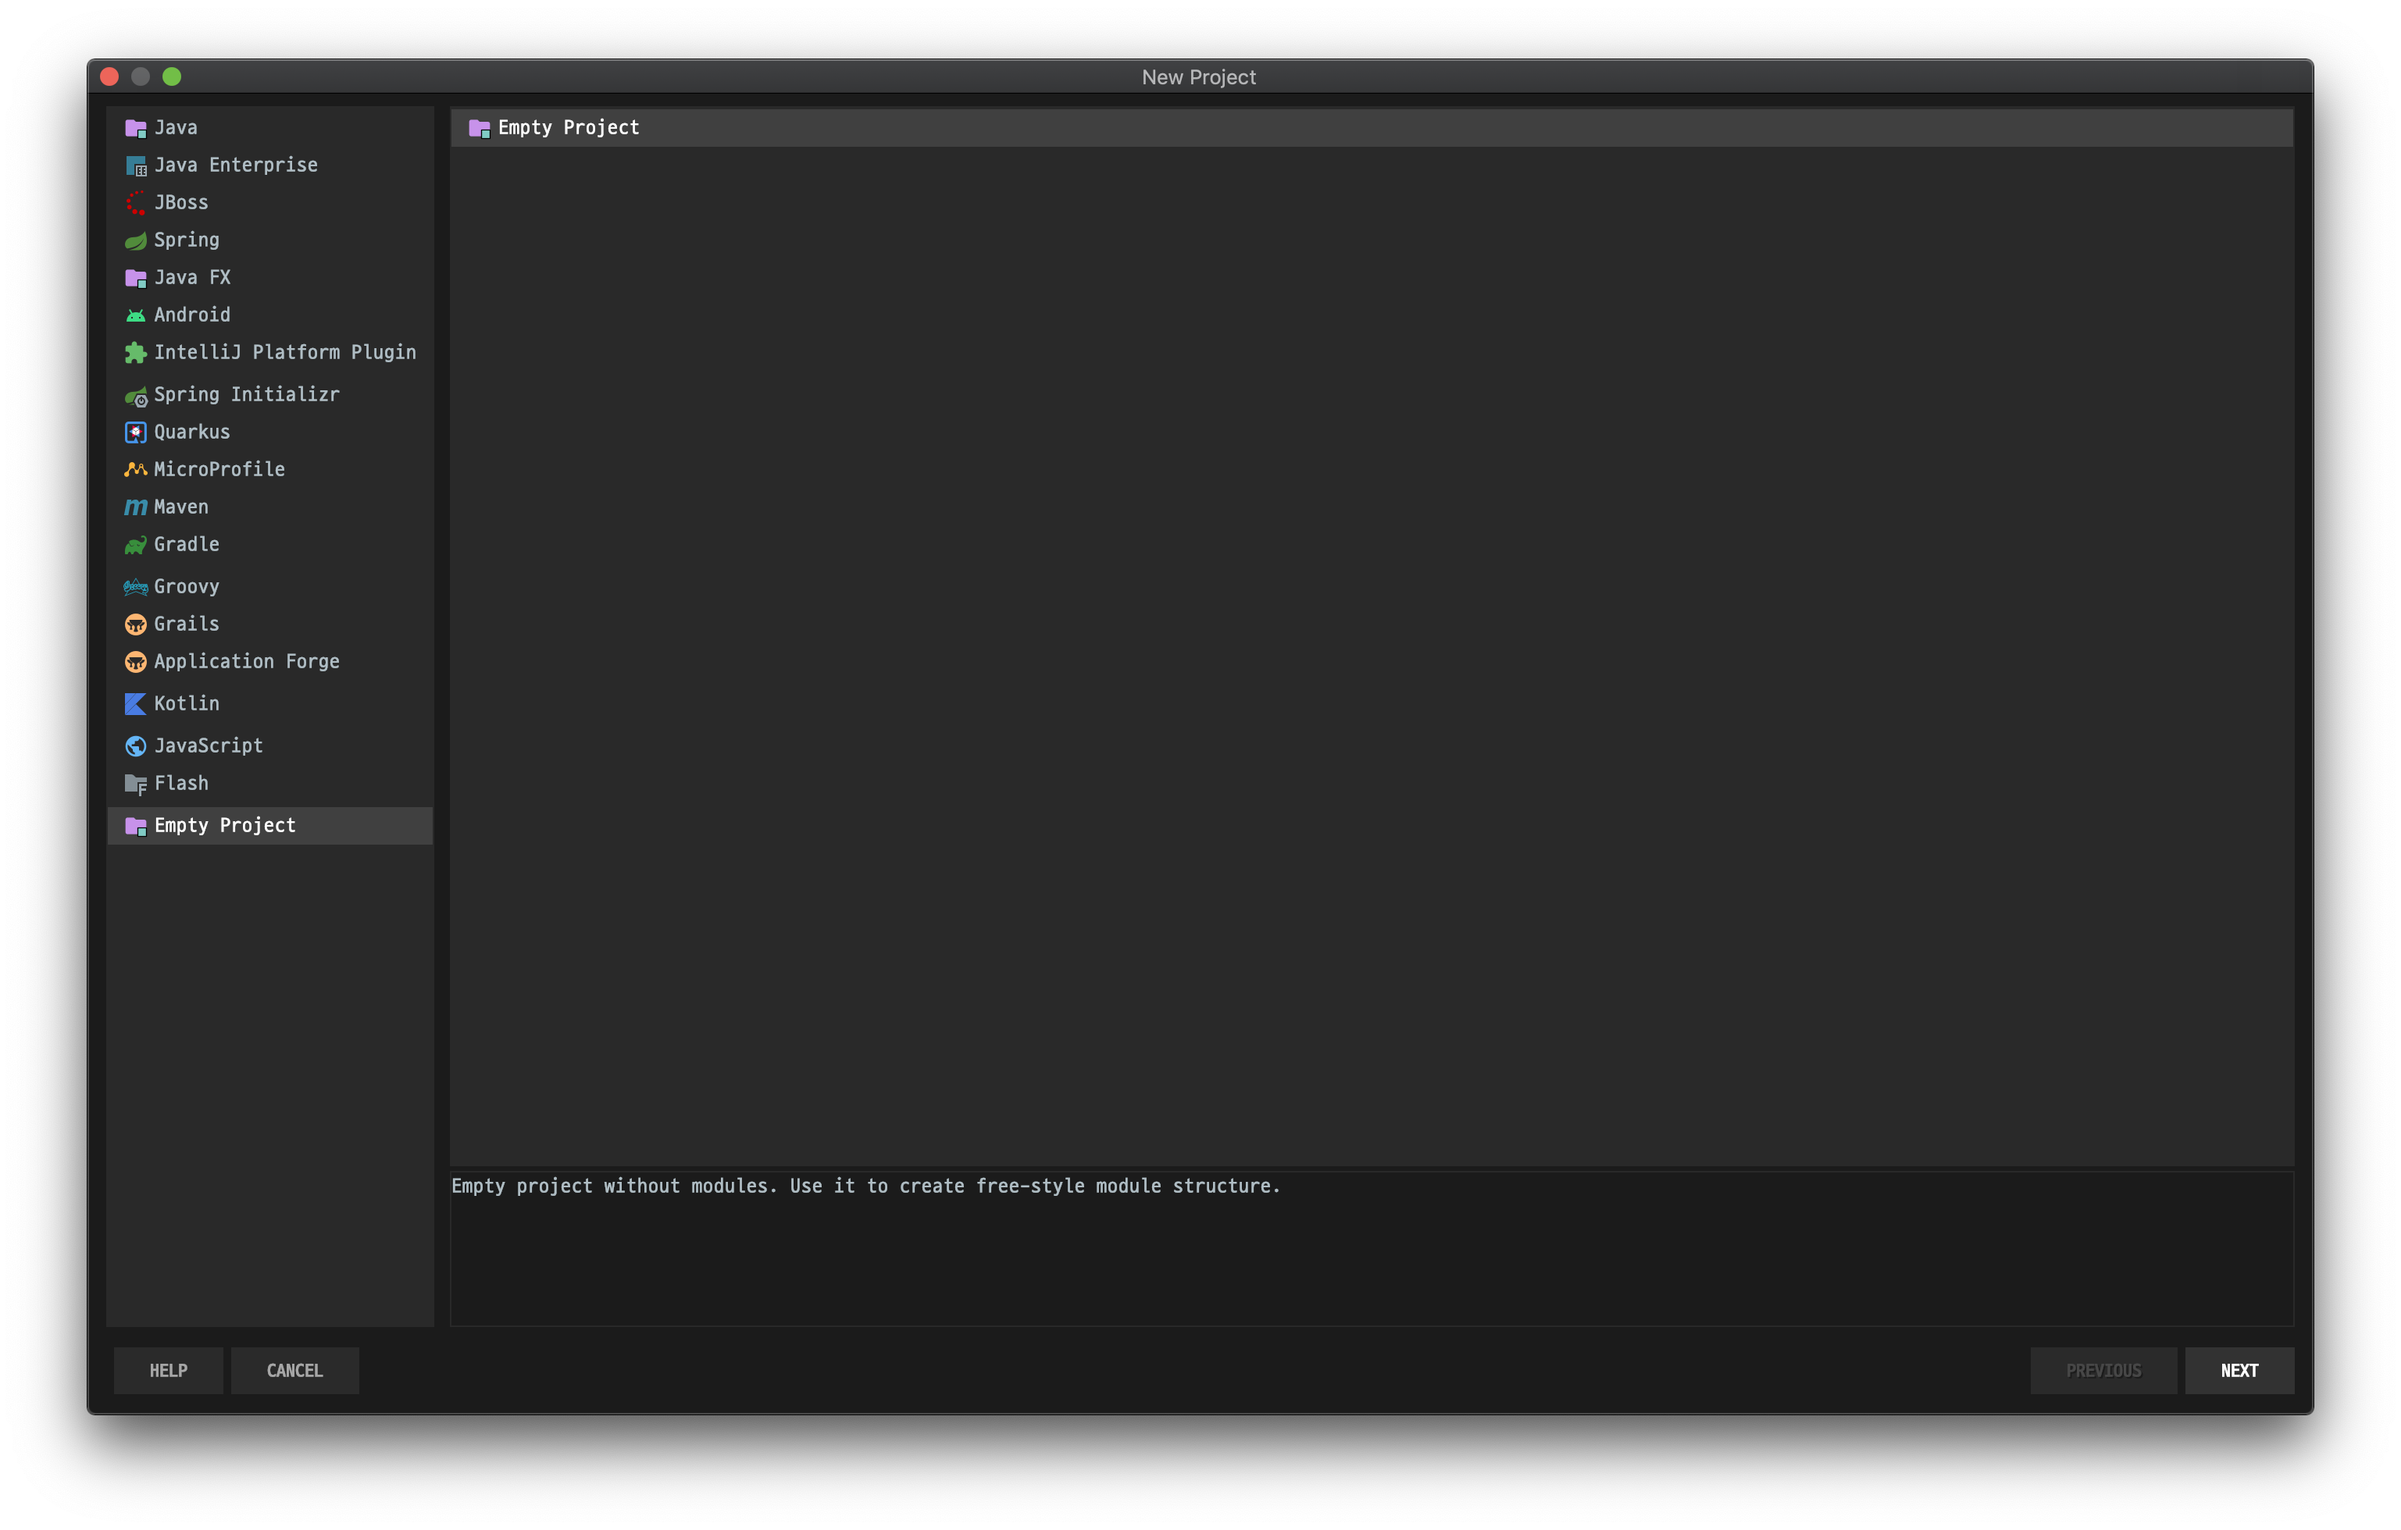
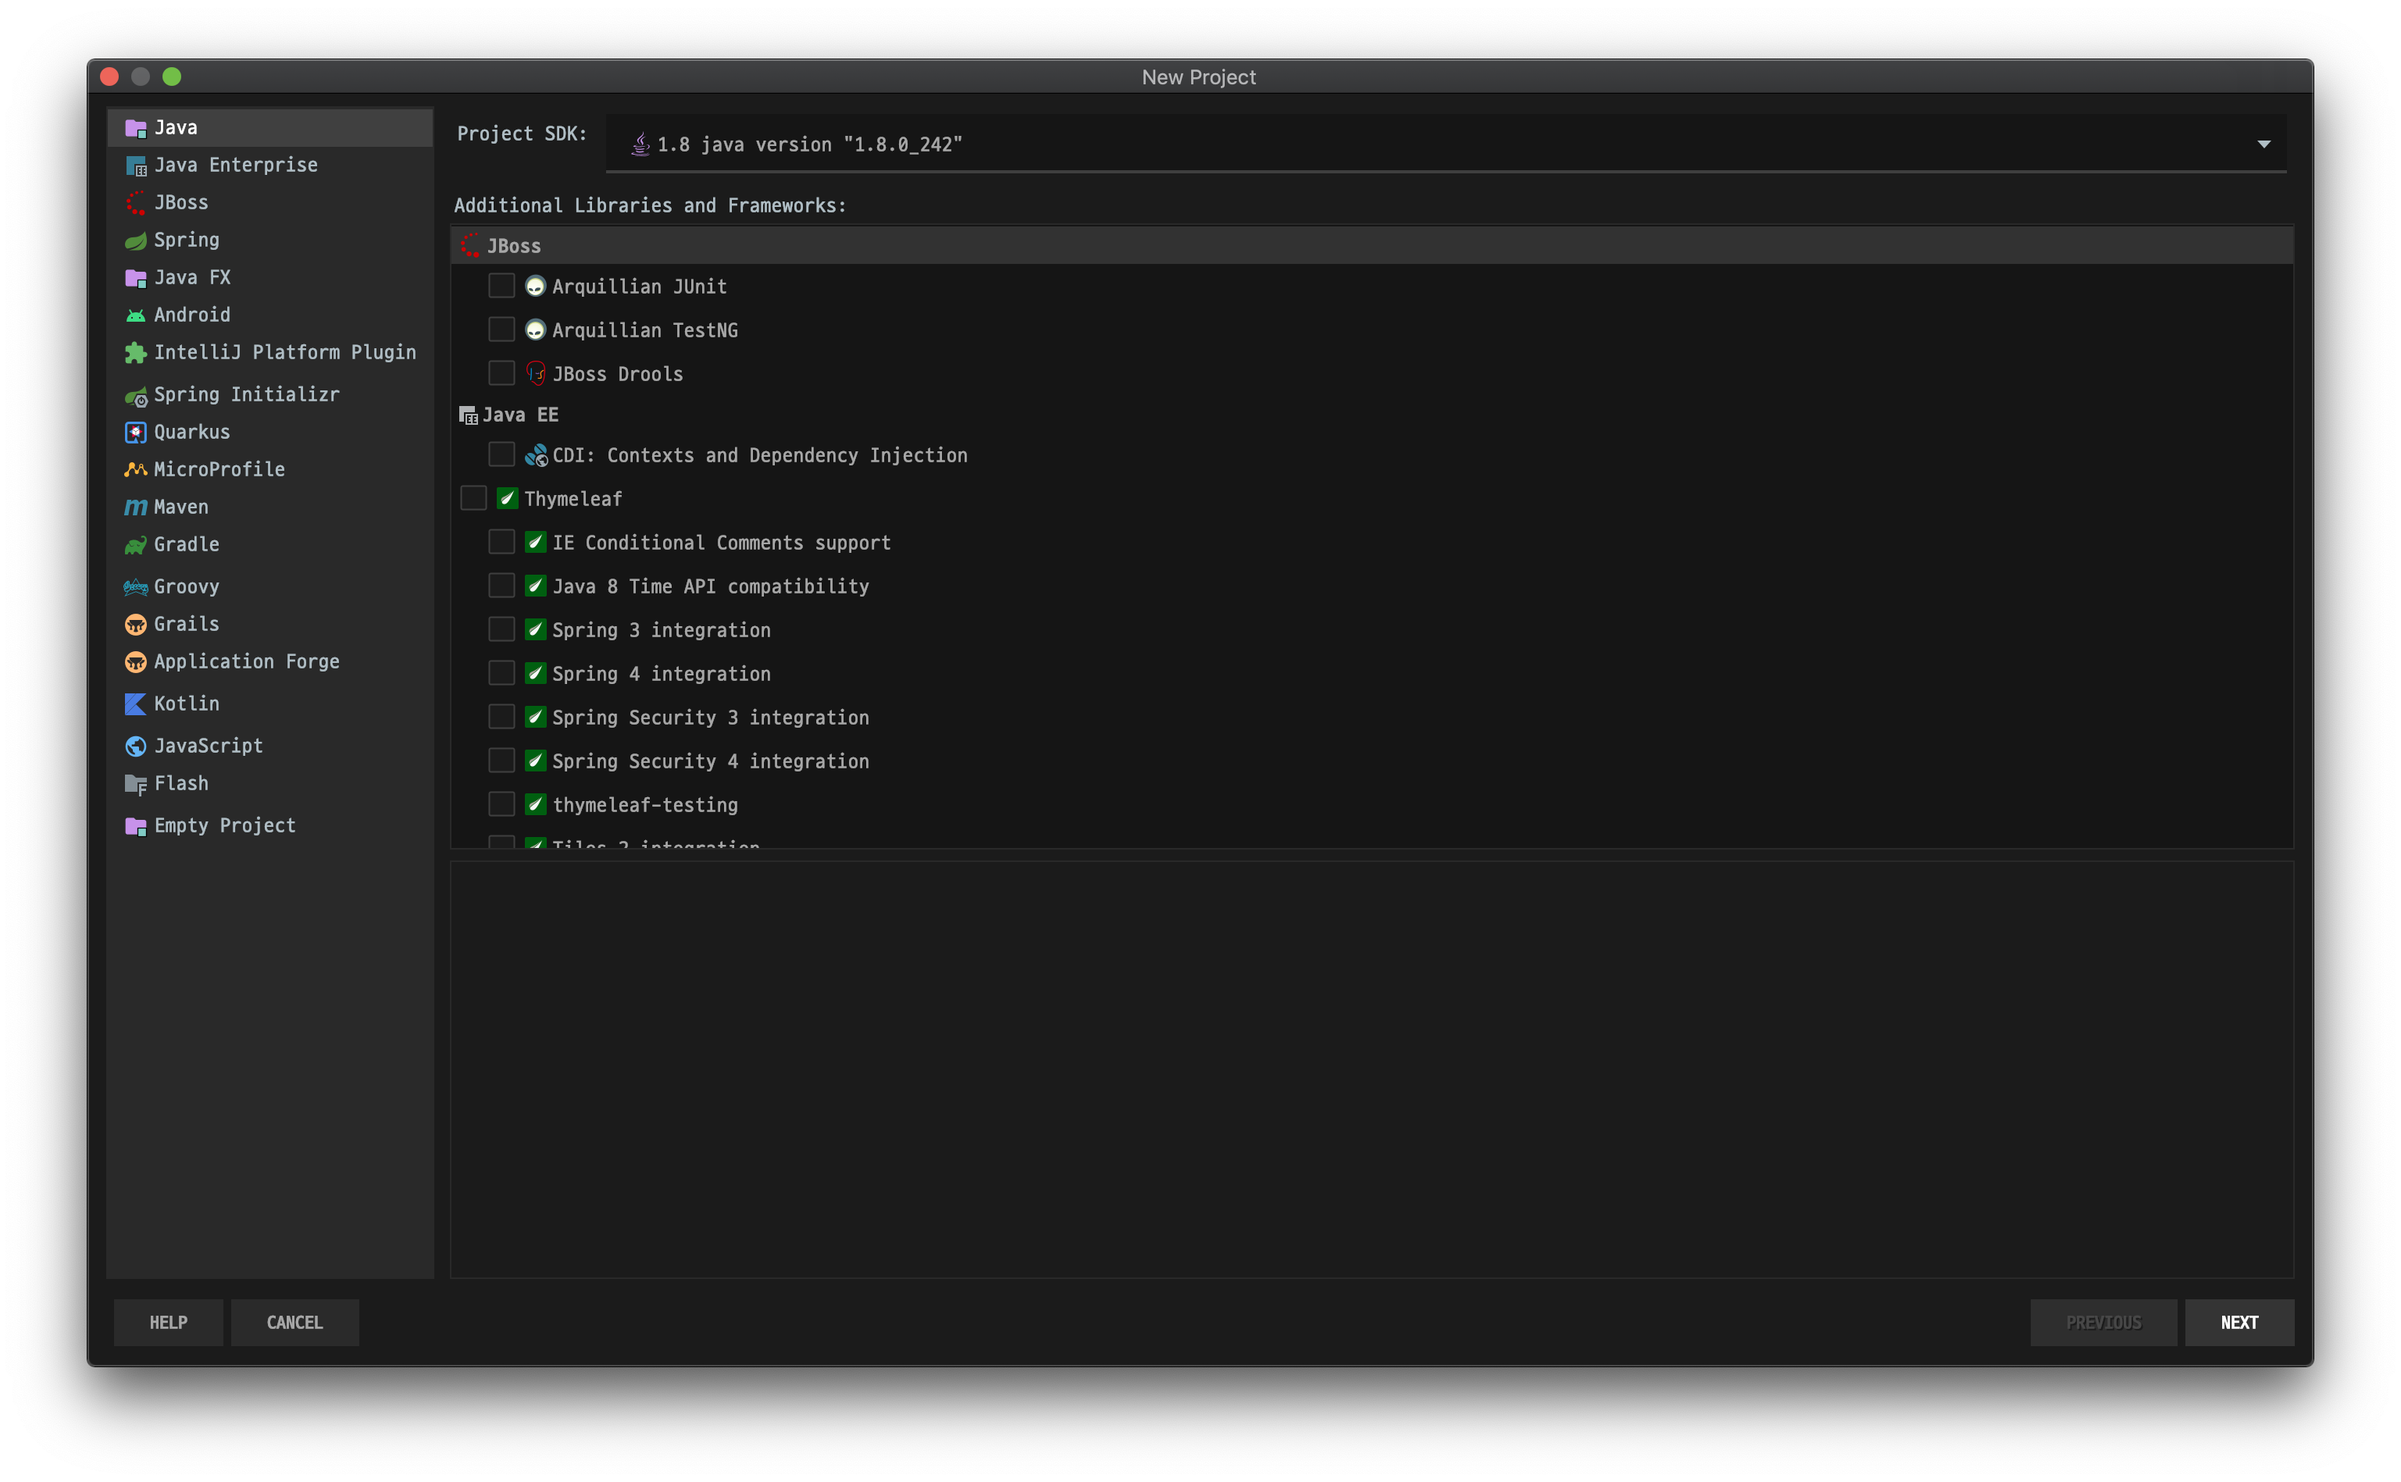
:pencil: modified: readme

diff --git a/version_java/README.md b/version_java/README.md
@@ -4,7 +4,7 @@
 
 - IDE : IntelliJ IDEA
 - 프로젝트 셋팅
-    - 빈 프로젝트 생성
+    - 자바 프로젝트 생성
     <img src="./img/1.png" />
     - 작업할 프로젝트 폴더(workspace) 지정
     <img src="./img/2.png" />
